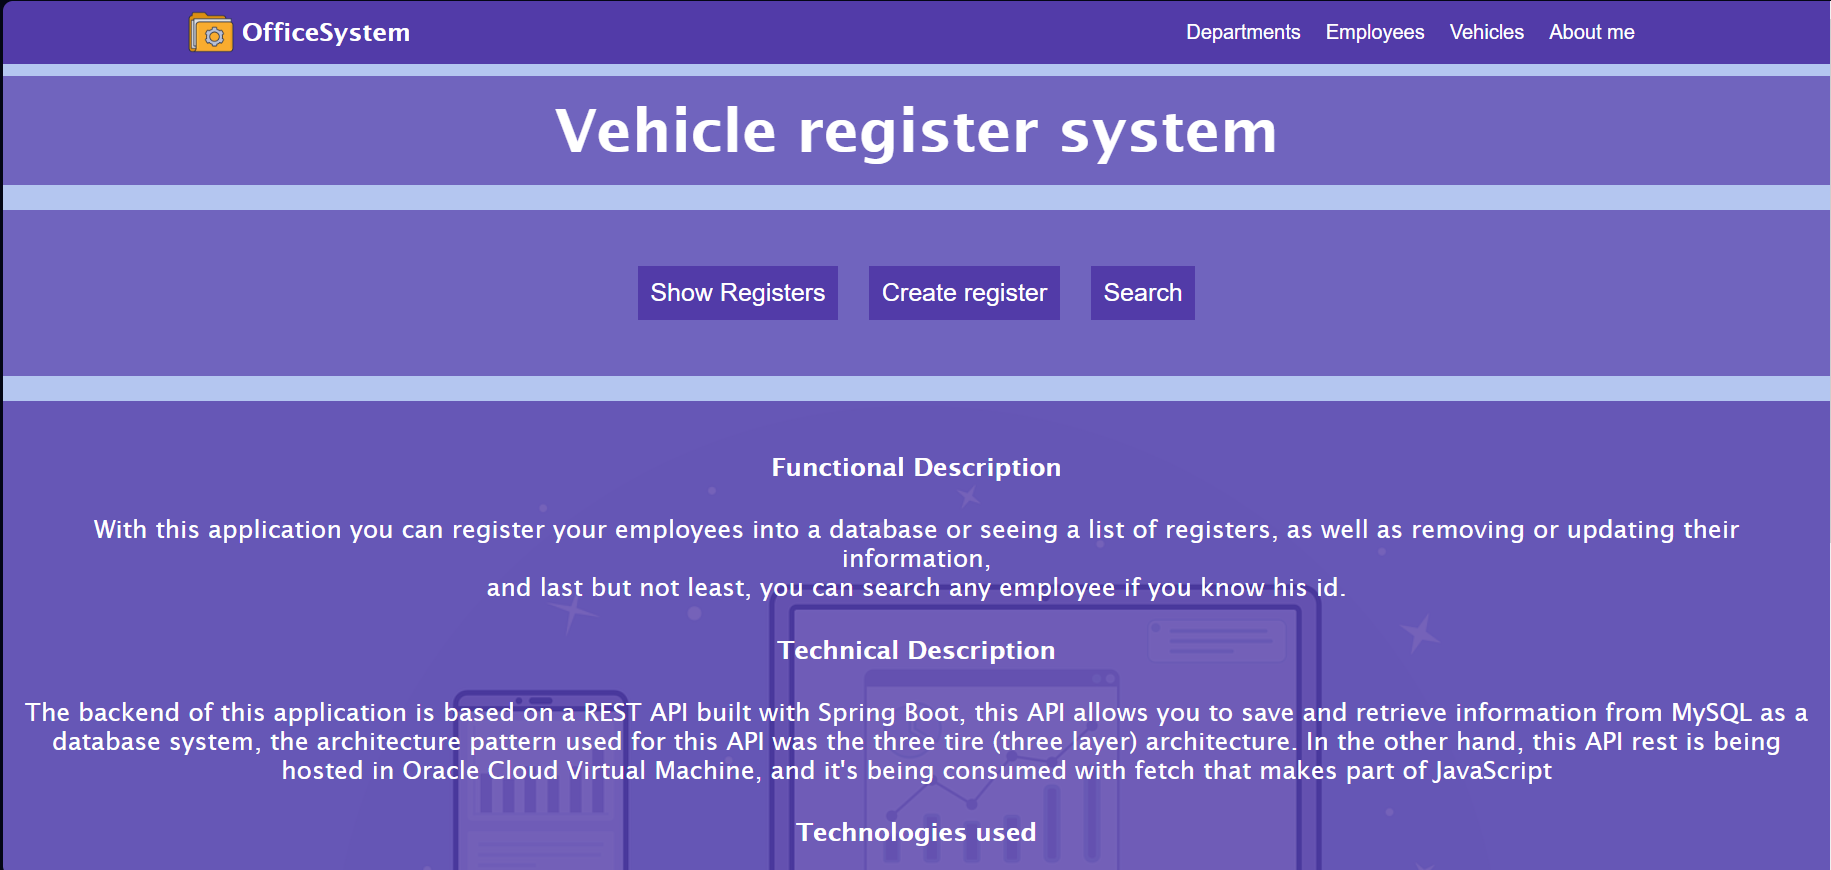
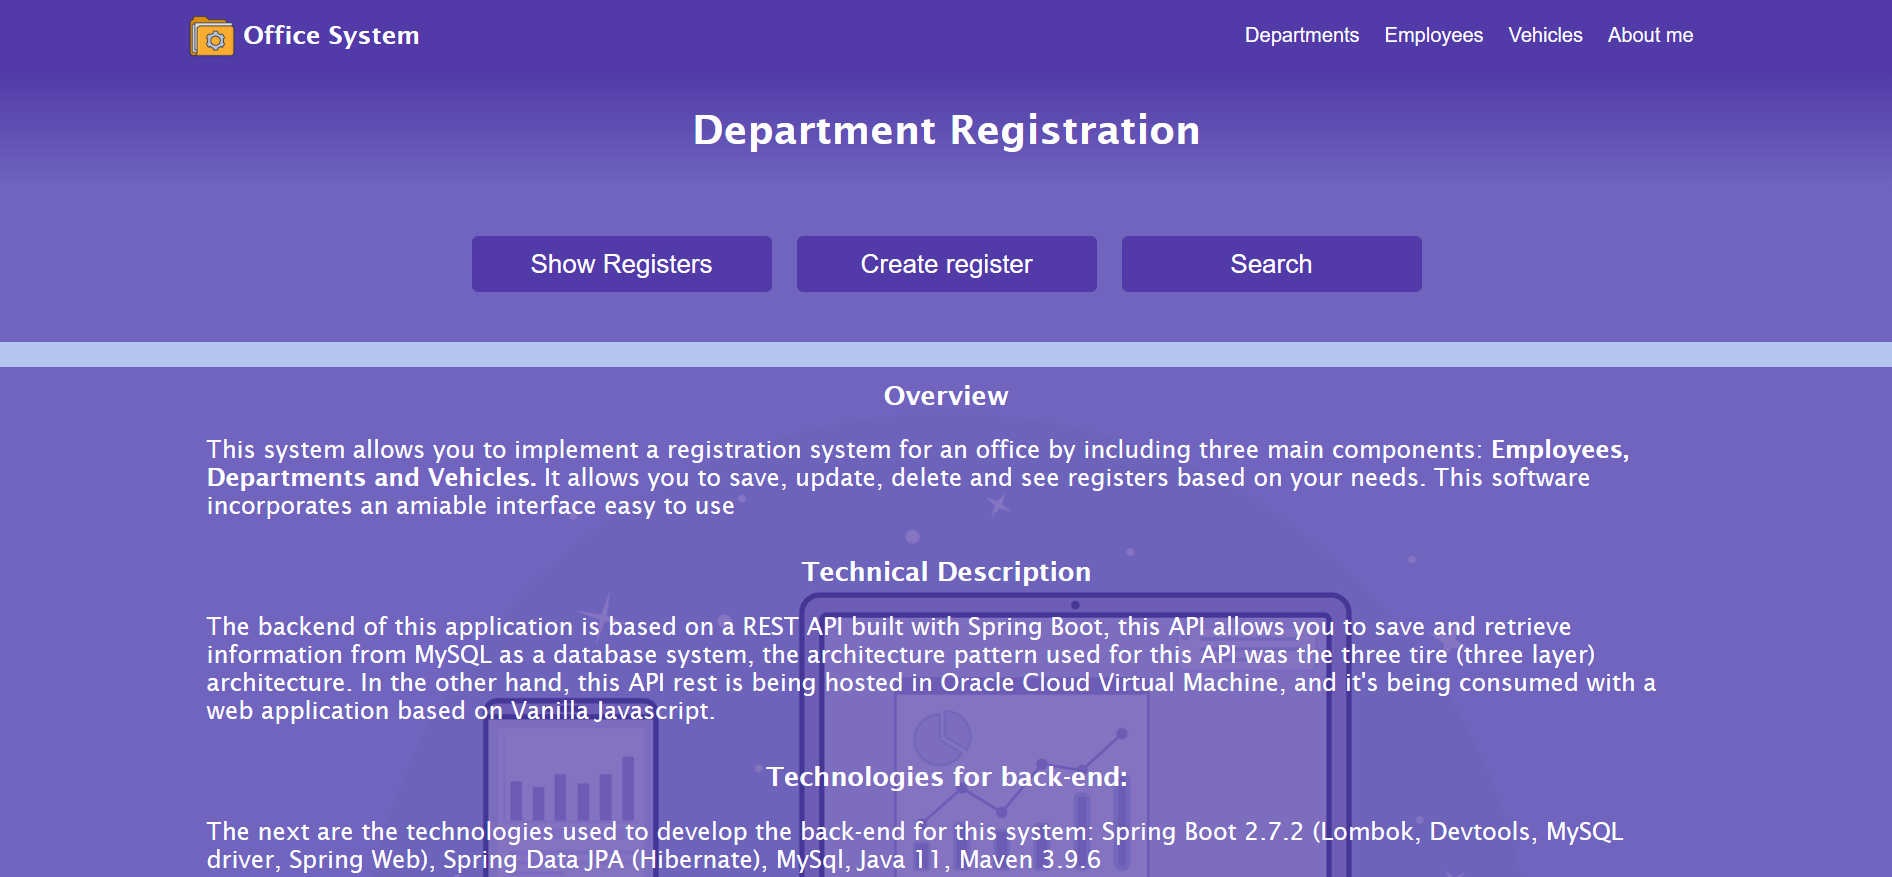
v1.5 HTML semantic enhancements, text content changed and Office System image updated

diff --git a/index.html b/index.html
@@ -23,7 +23,7 @@
                 
                 <article class="nav-sector-tittle">
                     <div class="icon-container">
-                        <img class="icon-nav" src="https://cdn-icons-png.flaticon.com/512/1654/1654317.png">
+                        <img alt="icon-portfolio" class="icon-nav" src="https://cdn-icons-png.flaticon.com/512/1654/1654317.png">
                     </div>
                     <div class="tittle-container">
                         <h1 class="tittle-nav">software galeras</h1>
@@ -65,7 +65,7 @@
                             </p>
                         </div>
                         <div class="complement-about-me">
-                            <img src="image/developer.png">
+                            <img alt="image-developer" src="image/developer.png">
                         </div>
                     </div>
                 </div>
@@ -78,32 +78,32 @@
                     </header>
                     <div class="content-service">
                         <ul class="text-service">
-                            <li>As a full-stack software developer, I can design solutions and develop the software that your company needs, I'm specialized in web applications.</li>
-                            <li>Proficiency in E-commerce-Applications, Content Management Systems and more.</li>
-                            <li>Development of restful web services (APIs) to interconnect back-end and front-end applications with Spring, Spring boot, node and Express.</li>
-                            <li>Interactive and responsive Landing pages and front-end applications based on current technologies such as React and Angular.</li>
+                            <li>As a full-stack software developer, I can design solutions that your company needs based on software, I'm specialized in web applications.</li>
+                            <li>Proficiency in development of APIs Rest and Soap for systems integration with Spring, Spring boot, Node and Express.</li>
+                            <li>Interactive and responsive designs of landing pages, multipage applications (MPA) and single page applications (SPA) with current technologies like Angular and React.</li>
+                            <li>Skilled in design of complex relational database systems with MySQL, SQL Server and PostgreSQL as well as No-SQL DBs with MongoDB.</li>
                         </ul>
                         <div class="complement-service">
                             <article class="image-container">
-                                <img src="https://cdn-icons-png.flaticon.com/512/5968/5968282.png">
+                                <img alt="java-icon" src="https://cdn-icons-png.flaticon.com/512/5968/5968282.png">
                             </article>
                             <article class="image-container">
-                                <img src="https://cdn-icons-png.flaticon.com/512/919/919830.png">
+                                <img alt="php-icon" src="https://cdn-icons-png.flaticon.com/512/919/919830.png">
                             </article>
                             <article class="image-container">
-                                <img src="https://cdn-icons-png.flaticon.com/512/1199/1199124.png">
+                                <img alt="js-icon" src="https://cdn-icons-png.flaticon.com/512/1199/1199124.png">
                             </article>
                             <article class="image-container">
-                                <img src="https://cdn-icons-png.flaticon.com/512/919/919825.png">
+                                <img alt="node-icon" src="https://cdn-icons-png.flaticon.com/512/919/919825.png">
                             </article>
                             <article class="image-container">
-                                <img src="https://cdn-icons-png.flaticon.com/512/1199/1199128.png">
+                                <img alt="mysql-icon" src="https://cdn-icons-png.flaticon.com/512/1199/1199128.png">
                             </article>
                             <article class="image-container">
-                                <img src="https://static-00.iconduck.com/assets.00/spring-boot-icon-512x511-pza8zvqu.png">
+                                <img alt="spring-icon" src="https://static-00.iconduck.com/assets.00/spring-boot-icon-512x511-pza8zvqu.png">
                             </article>
                             <article class="image-container">
-                                <img src="https://cdn3.iconfinder.com/data/icons/logos-and-brands-adobe/512/21_Angular-512.png">
+                                <img alt="angular-icon" src="https://cdn3.iconfinder.com/data/icons/logos-and-brands-adobe/512/21_Angular-512.png">
                             </article>
                         </div>
                     </div>
@@ -127,12 +127,14 @@
                         </div>
                         <div class="body-card">
                             <div class="text-card">
-                                <p>This application allows you to manage the registration system of an office,
-                                    Including registered employees, departments and vehicles; additionally, this app supports
-                                    CRUD operations which include: CREATE, READ, UPDATE & DELETE.</p>
+                                <p>
+                                    This application allows you to manage a registration system for an office,
+                                    based on three elements: Employees, Departments and Vehicles. Additionally, this app supports
+                                    CRUD operations such as CREATE, READ, UPDATE and DELETE registers.
+                                </p>
                             </div>
                             <div class="complement-card">
-                                <img src="image/registration-system.png">
+                                <img alt="office-registration-system-image" src="image/registration-system.png">
                             </div>
                         </div>
                     </article>
@@ -148,10 +150,13 @@
                         <div class="body-card">
                             <div class="text-card">
                                 <p>
-                                    Welcome to the Elderwood Landing Page, your gateway to a seamless and enriched living experience. Our thoughtfully designed landing page offers a glimpse into the comprehensive suite of services our system provides, with a focus on Room Management, Order and Additional Services, and Tourist Information functionalities. </p>
+                                    Welcome to the Elderwood Landing Page, your gateway to a seamless and enriched living experience. 
+                                    Our thoughtfully designed landing page offers a glimpse into the comprehensive suite of services our system provides, 
+                                    with a focus on Room Management, Order and Additional Services, and Tourist Information functionalities. 
+                                </p>
                             </div>
                             <div class="complement-card">
-                                <img src="image/Elderwood.png">
+                                <img alt="elderwood-landing-page-image" src="image/Elderwood.png">
                             </div>
                         </div>
                     </article>
@@ -166,12 +171,15 @@
                         </div>
                         <div class="body-card">
                             <div class="text-card">
-                                <p>This app allows you to manage your daily activities.
+                                <p>
+                                    This app allows you to manage your daily activities.
                                     Add new tasks or remove them whenever you want.
-                                    Additionally, you can modify their statuses to work on one of them at a time.</p>
+                                    Additionally, you can modify their statuses to work on them based on your needs.
+                                    Lastly, your information will be saved internally so that you won't lose it when you close the tab or browser.
+                                </p>
                             </div>
                             <div class="complement-card">
-                                <img src="image/my-to-do-list-app.PNG">
+                                <img alt="my-to-do-list-image" src="image/my-to-do-list-app.PNG">
                             </div>
                         </div>
                     </article>
@@ -186,11 +194,13 @@
                         </div>
                         <div class="body-card">
                             <div class="text-card">
-                                <p>This blog was made in order to integrate Spotify API, consuming the API allows us to play and manage millions of songs easily.
-                                    On the other hand, this project is being developed for sharing my favorite bands that I have listened to along the time.</p>
+                                <p>
+                                    This blog was made in order to integrate Spotify API, consuming the API allows us to play and manage millions of songs easily.
+                                    On the other hand, this project is being developed for sharing my favorite bands that I have listened to along the time.
+                                </p>
                             </div>
                             <div class="complement-card">
-                                <img src="image/bandas-blog.png">
+                                <img alt="bands-potify-api-image" src="image/bandas-blog.png">
                             </div>
                         </div>
                     </article>
@@ -205,12 +215,14 @@
                         </div>
                         <div class="body-card">
                             <div class="text-card">
-                                <p>This app helps you to create a list of products; so that,
+                                <p>
+                                    This app helps you to create a list of products; so that,
                                     you are able to add or remove products and calculate the total price of
-                                    your purchase while you are in the store.</p>
+                                    your purchase while you are in the store.
+                                </p>
                             </div>
                             <div class="complement-card">
-                                <img src="image/product-list-app.png">
+                                <img alt="product-list-app-image" src="image/product-list-app.png">
                             </div>
                         </div>
                     </article>
@@ -227,7 +239,7 @@
                     <section class="footer-main-container"> <!-- Red Tittle-->
                         <article class="footer-tittle-section"> <!-- Up blue-->
                                 <div class="icon-container"> <!-- icon -->
-                                    <img class="icon-nav" src="https://cdn-icons-png.flaticon.com/512/1654/1654317.png">
+                                    <img alt="website-icon" class="icon-nav" src="https://cdn-icons-png.flaticon.com/512/1654/1654317.png">
                                 </div>
                                 <div class="footer-tittle-container"> <!-- Text -->
                                     <h1 class="tittle-nav">software galeras</h1>
@@ -244,7 +256,7 @@
                             <div class="company-container"> <!-- company -->
                                 <h5>company</h5>
                                 <h3>contact me</h3>
-                                <img src="image/correo-de-contacto.png">
+                                <img alt="contact-icon" src="image/correo-de-contacto.png">
                             </div>
                         </article>
                         <article class="footer-follow-me-section"> <!-- blue right -->
@@ -254,9 +266,9 @@
                                 <h3><a href="https://www.linkedin.com/in/jairo-johan-lasso-47165a223/" target="_blank" rel="noreferrer">LinkedIn</a></h3>
                                 <h3><a href="https://www.instagram.com/sukha_snd/" rel="noreferrer" target="_blank">Instagram</a></h3>
                                 <div class="follow-me-icons">
-                                    <img src="image/github.png">
-                                    <img src="image/linkedin.png">
-                                    <img src="image/instagram.png">
+                                    <img alt="github-icon" src="image/github.png">
+                                    <img alt="linkedin-icon" src="image/linkedin.png">
+                                    <img alt="instagram-icon" src="image/instagram.png">
                                 </div>
                             </div>
                         </article>
